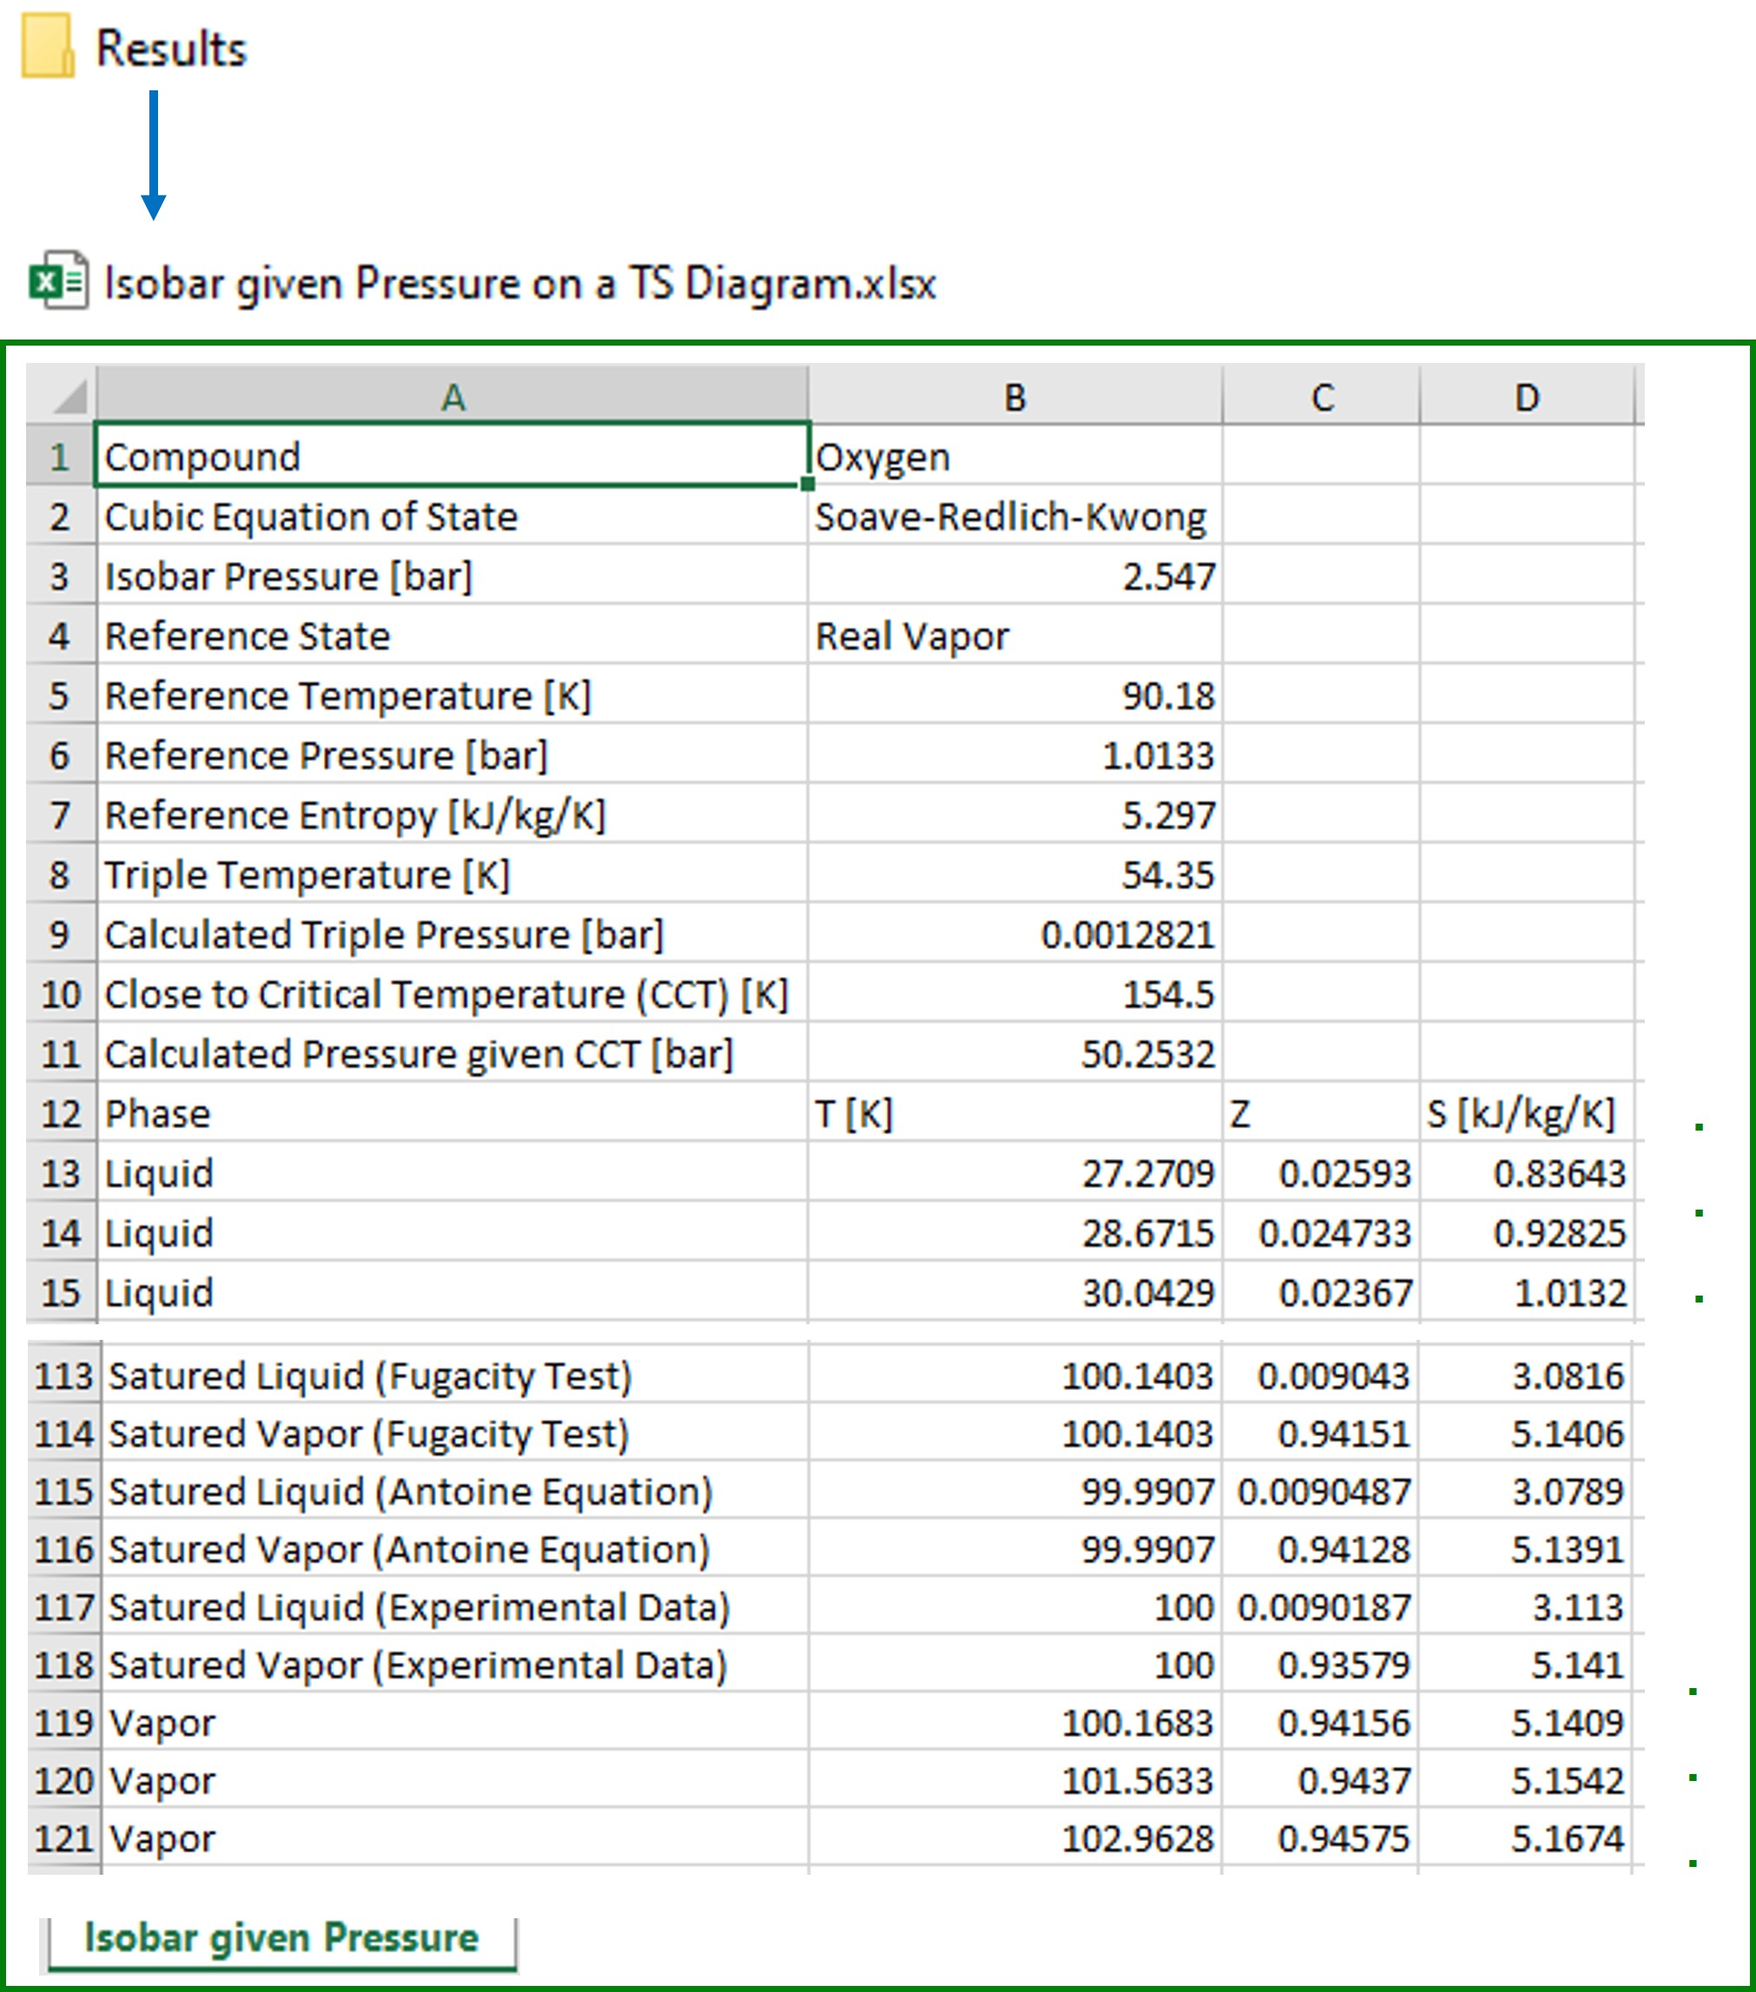
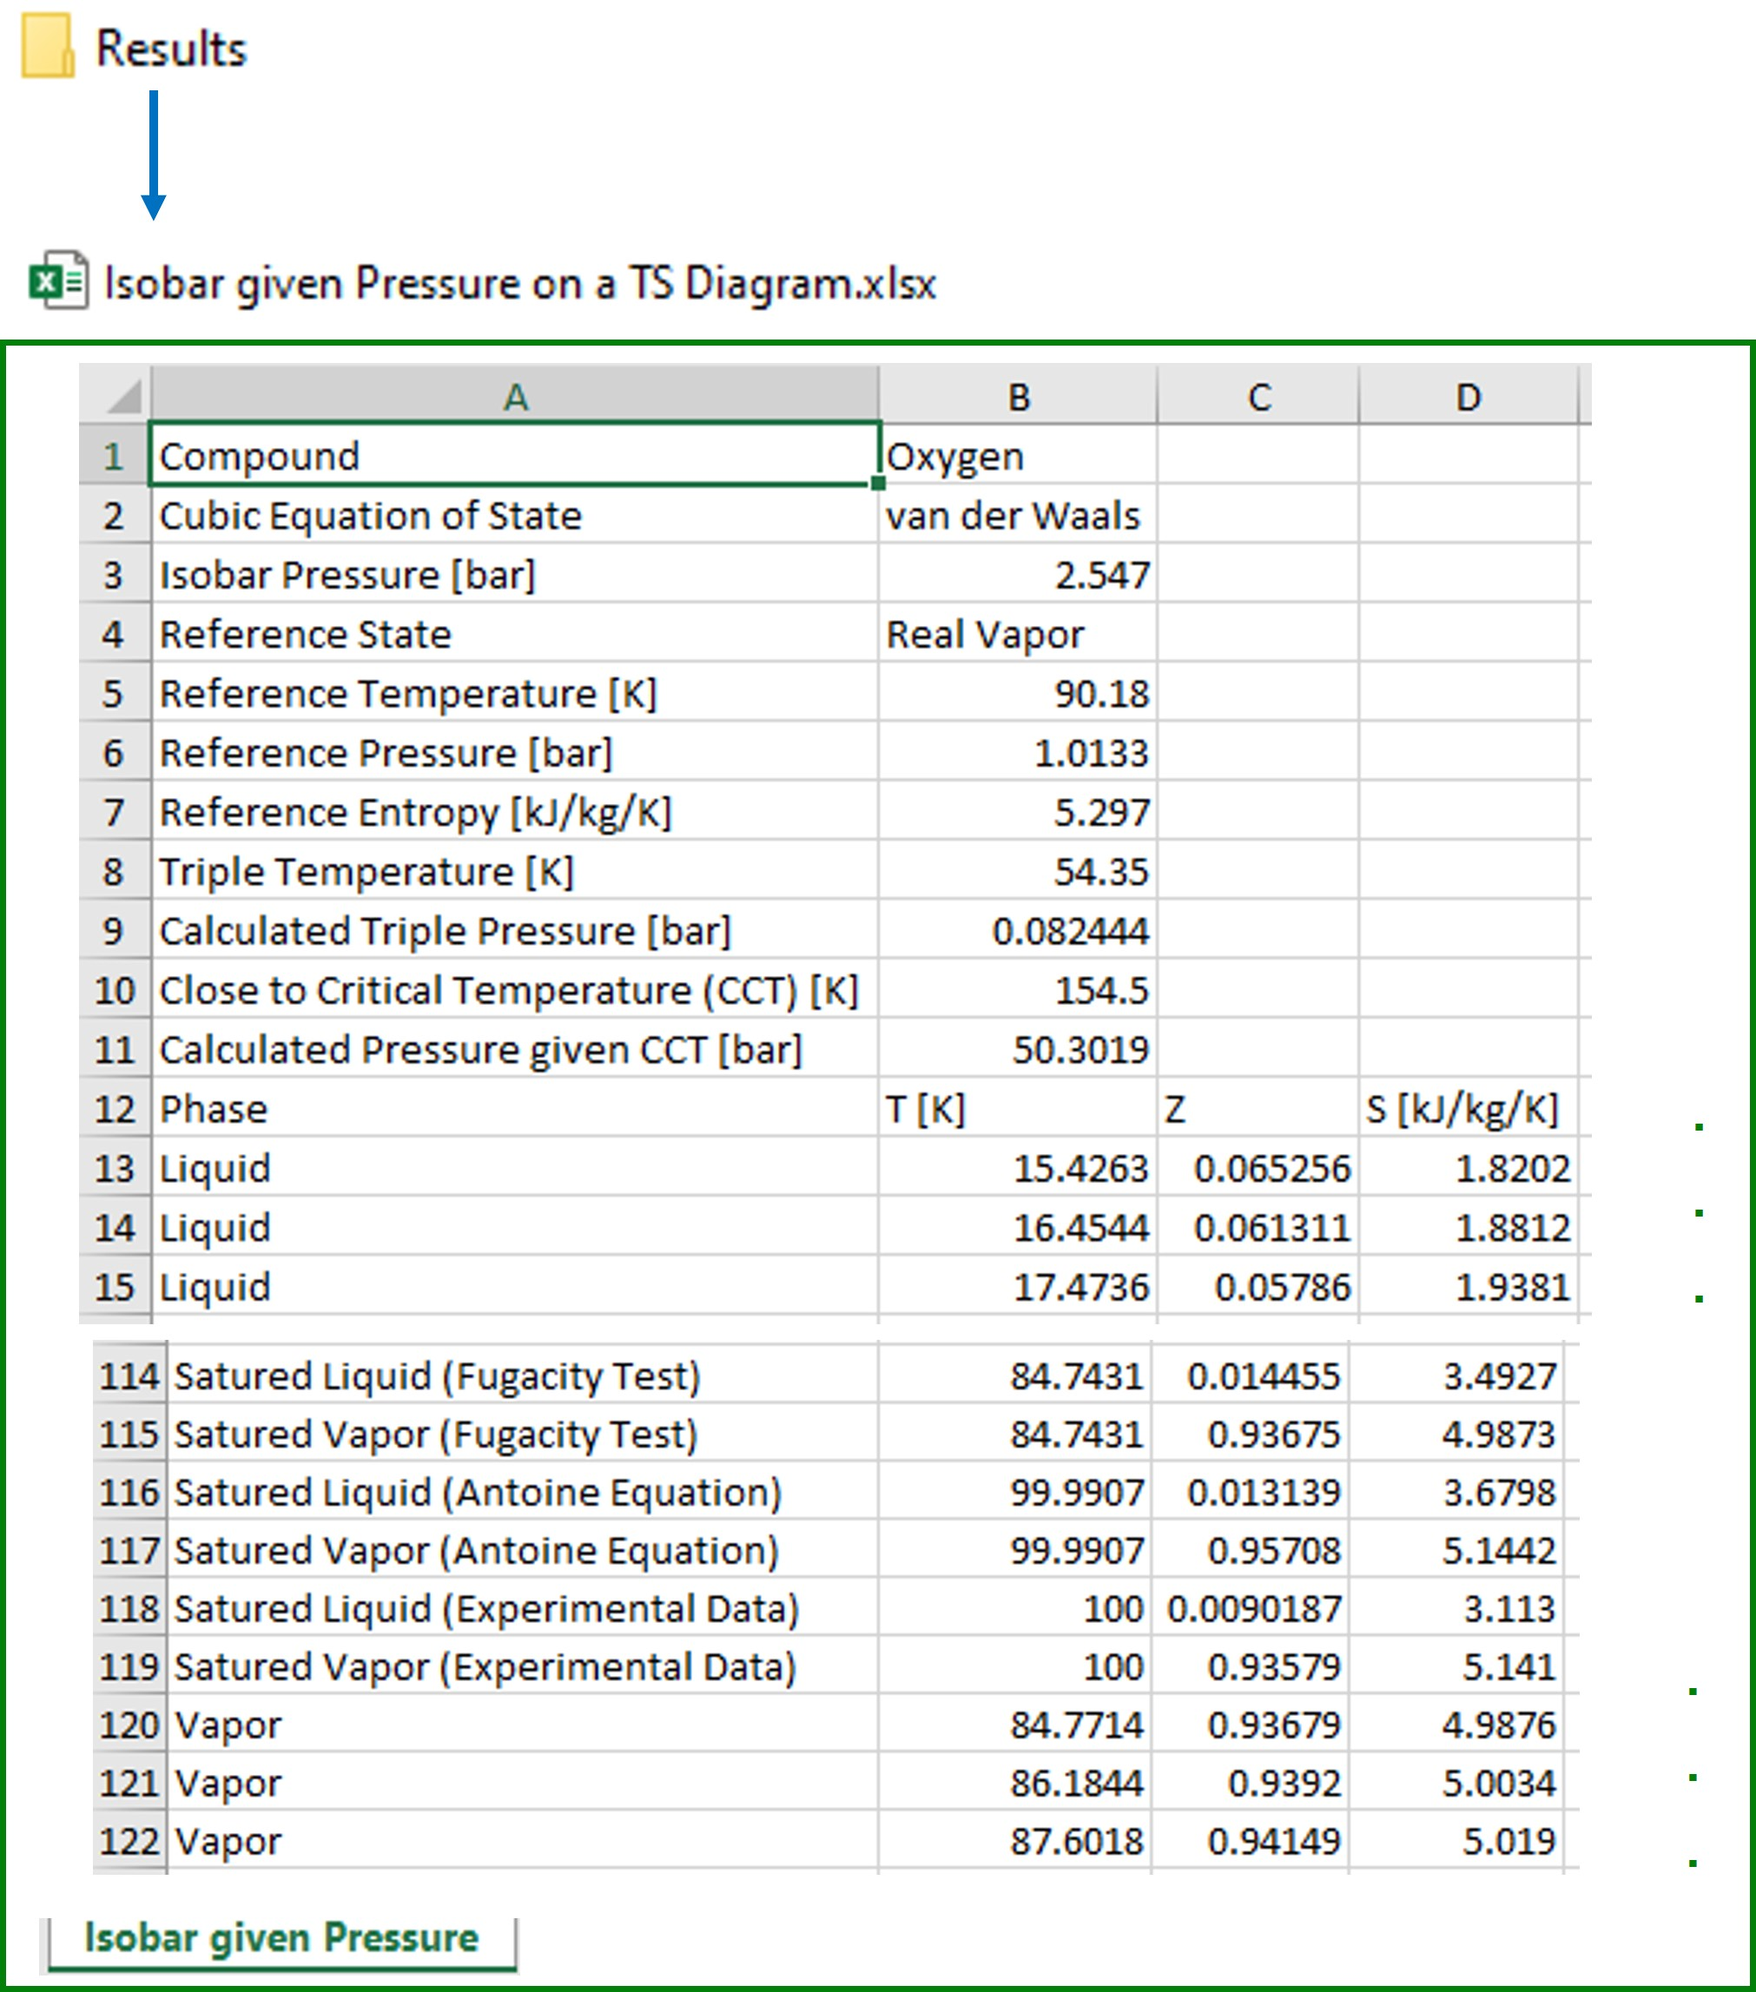
MATLAB Grader

diff --git a/Cubic Equations of State Simulator/MATLAB Grader/Assignment 2/Problem 4/README.md b/Cubic Equations of State Simulator/MATLAB Grader/Assignment 2/Problem 4/README.md
@@ -1,0 +1,109 @@
+# MATLAB Apps and MATLAB Codes: Entropy
+
+## 1. Isotherm given Temperature on a PS Diagram
+
+The first option of the entropy menu allows generating on a PS diagram the isotherm of a substance given a temperature, a reference state, and a cubic equation of state ([documented code](https://github.com/IMClick-Project/IQ/blob/main/Cubic%20Equations%20of%20State%20Simulator/Code%20Documentation/Entropy%201%20-%20Isotherm%20given%20Temperature%20on%20a%20PS%20Diagram.md)). **Figure 1** illustrates the access mode and parts of the window for this option: **section a)** allows selecting the compound (which defines the corresponding reference state recorded in the database), the cubic equation of state, and the isotherm temperature to perform the calculations; and **section b)** graphs and shows the results of the computed isotherm on a PS diagram.
+
+<img src="https://github.com/IMClick-Project/IQ/blob/main/Cubic%20Equations%20of%20State%20Simulator/MATLAB%20Grader/Assignment%202/Problem%204/s1-1.jpg" width="957" height="883">
+
+*Figure 1. Mode of access to and parts of the window of the first option of the entropy menu: Isotherm given Temperature on a PS Diagram.*
+
+**Figure 2** shows how to use this option. If there is no isotherm temperature available or the reference state is not completely defined, it is not possible to perform the calculations. If not, it performs the operations (for example, considering oxygen as the compound, van der Waals as the cubic equation of state, and 100 K as the isotherm temperature) and when it ends to graph and record the results, you can export the results in an Excel file (**Figure 3**).
+
+<img src="https://github.com/IMClick-Project/IQ/blob/main/Cubic%20Equations%20of%20State%20Simulator/MATLAB%20Grader/Assignment%202/Problem%204/s1-2.jpg" width="780" height="1317">
+
+*Figure 2. Mode of use and example of results executing the first option of the entropy menu: Isotherm given Temperature on a PS Diagram.*
+
+<img src="https://github.com/IMClick-Project/IQ/blob/main/Cubic%20Equations%20of%20State%20Simulator/MATLAB%20Grader/Assignment%202/Problem%204/s1-3.jpg" width="445" height="500">
+
+*Figure 3. Excel file with the exported results: Isotherm given Temperature on a PS Diagram.*
+
+## 2. Two-Phase Envelope on a PS Diagram
+
+The second option of the entropy menu allows generating on a PS diagram the saturated liquid and vapor line of a substance given the temperatures recorded in the simulator database, a reference state, and a cubic equation of state ([documented code](https://github.com/IMClick-Project/IQ/blob/main/Cubic%20Equations%20of%20State%20Simulator/Code%20Documentation/Entropy%202%20-%20Two-Phase%20Envelope%20on%20a%20PS%20Diagram.md)). **Figure 4** illustrates the access mode and parts of the window for this option: **section a)** allows selecting the compound (which defines the corresponding reference state recorded in the database) and the cubic equation of state to perform the calculations; and **section b)** graphs and shows the results of the computed saturated liquid and vapor line on a PS diagram, as well as the calculated critical point.
+
+<img src="https://github.com/IMClick-Project/IQ/blob/main/Cubic%20Equations%20of%20State%20Simulator/MATLAB%20Grader/Assignment%202/Problem%204/s2-1.jpg" width="957" height="885">
+
+*Figure 4. Mode of access to and parts of the window of the second option of the entropy menu: Two-Phase Envelope on a PS Diagram.*
+
+**Figure 5** shows how to use this option. If there are no isotherm temperatures available in the simulator database or the reference state is not completely defined, it is not possible to perform the calculations. If not, it performs the operations (for example, considering refrigerant 134a as the compound and Redlich-Kwong as the cubic equation of state) and when it ends to graph and record the results, you can export the results in an Excel file (**Figure 6**).
+
+<img src="https://github.com/IMClick-Project/IQ/blob/main/Cubic%20Equations%20of%20State%20Simulator/MATLAB%20Grader/Assignment%202/Problem%204/s2-2.jpg" width="746" height="1414">
+
+*Figure 5. Mode of use and example of results executing the second option of the entropy menu: Two-Phase Envelope on a PS Diagram.*
+
+<img src="https://github.com/IMClick-Project/IQ/blob/main/Cubic%20Equations%20of%20State%20Simulator/MATLAB%20Grader/Assignment%202/Problem%204/s2-3.jpg" width="681" height="457">
+
+*Figure 6. Excel file with the exported results: Two-Phase Envelope on a PS Diagram.*
+
+## 3. PST Surface given Isotherm Temperatures
+
+The third option of the entropy menu allows generating on a PST surface the isotherms of a substance given the temperatures recorded in the simulator database, a reference state, and a cubic equation of state ([documented code](https://github.com/IMClick-Project/IQ/blob/main/Cubic%20Equations%20of%20State%20Simulator/Code%20Documentation/Entropy%203%20-%20PST%20Surface%20given%20Isotherm%20Temperatures.md)). **Figure 7** illustrates the access mode and parts of the window for this option: **section a)** allows selecting the compound (which defines the corresponding reference state recorded in the database) and the cubic equation of state to perform the calculations; and **section b)** graphs and shows the results of the computed isotherms on a PST surface.
+
+<img src="https://github.com/IMClick-Project/IQ/blob/main/Cubic%20Equations%20of%20State%20Simulator/MATLAB%20Grader/Assignment%202/Problem%204/s3-1.jpg" width="957" height="857">
+
+*Figure 7. Mode of access to and parts of the window of the third option of the entropy menu: PST Surface given Isotherm Temperatures.*
+
+**Figure 8** shows how to use this option. If there are no isotherm temperatures available in the simulator database or the reference state is not completely defined, it is not possible to perform the calculations. If not, it performs the operations (for example, considering water as the compound and Peng-Robinson as the cubic equation of state).
+
+<img src="https://github.com/IMClick-Project/IQ/blob/main/Cubic%20Equations%20of%20State%20Simulator/MATLAB%20Grader/Assignment%202/Problem%204/s3-2.jpg" width="811" height="1281">
+
+*Figure 8. Mode of use and example of results executing the third option of the entropy menu: PST Surface given Isotherm Temperatures.*
+
+## 4. Isobar given Pressure on a TH Diagram
+
+The fourth option of the entropy menu allows generating on a TS diagram the isobar of a substance given a pressure, a reference state, and a cubic equation of state ([documented code](https://github.com/IMClick-Project/IQ/blob/main/Cubic%20Equations%20of%20State%20Simulator/Code%20Documentation/Entropy%204%20-%20Isobar%20given%20Pressure%20on%20a%20TS%20Diagram.md)). **Figure 9** illustrates the access mode and parts of the window for this option: **section a)** allows selecting the compound (which defines the corresponding reference state recorded in the database), the cubic equation of state, and the isobar pressure to perform the calculations; and **section b)** graphs and shows the results of the computed isobar on a TS diagram.
+
+<img src="https://github.com/IMClick-Project/IQ/blob/main/Cubic%20Equations%20of%20State%20Simulator/MATLAB%20Grader/Assignment%202/Problem%204/s4-1.jpg" width="957" height="879">
+
+*Figure 9. Mode of access to and parts of the window of the fourth option of the entropy menu: Isobar given Pressure on a TS Diagram.*
+
+**Figure 10** shows how to use this option. If there is no isobar pressure available or the reference state is not completely defined, it is not possible to perform the calculations. If not, it performs the operations (for example, considering oxygen as the compound, van der Waals as the cubic equation of state, and 2.547 bar as the isobar pressure) and when it ends to graph and record the results, you can export the results in an Excel file (**Figure 11**).
+
+<img src="https://github.com/IMClick-Project/IQ/blob/main/Cubic%20Equations%20of%20State%20Simulator/MATLAB%20Grader/Assignment%202/Problem%204/s4-2.jpg" width="768" height="1299">
+
+*Figure 10. Mode of use and example of results executing the fourth option of the entropy menu: Isobar given Pressure on a TH Diagram.*
+
+<img src="https://github.com/IMClick-Project/IQ/blob/main/Cubic%20Equations%20of%20State%20Simulator/MATLAB%20Grader/Assignment%202/Problem%204/s4-3.jpg" width="506" height="574">
+
+*Figure 11. Excel file with the exported results: Isobar given Pressure on a TS Diagram.*
+
+There is a thermodynamically impossible case that does not allow the prediction to be made through the Fugacity Test. This is when $\mathbf{P_{sat}}$ is not between the $\mathbf{P_{sat}}$ calculated from $\mathbf{T_t}$ and close to $\mathbf{T_c}$. **Figure 12** shows the results of this case in the simulator and exported to an Excel file.
+
+<img src="https://github.com/IMClick-Project/IQ/blob/main/Cubic%20Equations%20of%20State%20Simulator/MATLAB%20Grader/Assignment%202/Problem%204/s4-4.jpg" width="769" height="1155">
+
+*Figure 12. Results in the case not thermodynamically possible and the calculations of the Fugacity Test cannot be performed: Isobar given Pressure on a TS Diagram.*
+
+## 5. Two-Phase Envelope on a TS Diagram
+
+The fifth option of the entropy menu allows generating on a TS diagram the saturated liquid and vapor line of a substance given the pressures recorded in the simulator database, a reference state, and a cubic equation of state ([documented code](https://github.com/IMClick-Project/IQ/blob/main/Cubic%20Equations%20of%20State%20Simulator/Code%20Documentation/Entropy%205%20-%20Two-Phase%20Envelope%20on%20a%20TS%20Diagram.md)). **Figure 13** illustrates the access mode and parts of the window for this option: **section a)** allows selecting the compound (which defines the corresponding reference state recorded in the database) and the cubic equation of state to perform the calculations; and **section b)** graphs and shows the results of the computed saturated liquid and vapor line on a TS diagram, as well as the calculated critical point.
+
+<img src="https://github.com/IMClick-Project/IQ/blob/main/Cubic%20Equations%20of%20State%20Simulator/MATLAB%20Grader/Assignment%202/Problem%204/s5-1.jpg" width="957" height="886">
+
+*Figure 13. Mode of access to and parts of the window of the fifth option of the entropy menu: Two-Phase Envelope on a TS Diagram.*
+
+**Figure 14** shows how to use this option. If there are no isobar pressures available in the simulator database or the reference state is not completely defined, it is not possible to perform the calculations. If not, it performs the operations (for example, considering refrigerant 134a as the compound and Soave-Redlich-Kwong as the cubic equation of state) and when it ends to graph and record the results, you can export the results in an Excel file (**Figure 15**).
+
+<img src="https://github.com/IMClick-Project/IQ/blob/main/Cubic%20Equations%20of%20State%20Simulator/MATLAB%20Grader/Assignment%202/Problem%204/s5-2.jpg" width="751" height="1415">
+
+*Figure 14. Mode of use and example of results executing the fifth option of the entropy menu: Two-Phase Envelope on a TS Diagram.*
+
+<img src="https://github.com/IMClick-Project/IQ/blob/main/Cubic%20Equations%20of%20State%20Simulator/MATLAB%20Grader/Assignment%202/Problem%204/s5-3.jpg" width="702" height="454">
+
+*Figure 15. Excel file with the exported results: Two-Phase Envelope on a TS Diagram.*
+
+## 6. PST Surface given Isobar Pressures
+
+The sixth option of the entropy menu allows generating on a PST surface the isobars of a substance given the pressures recorded in the simulator database, a reference state, and a cubic equation of state ([documented code](https://github.com/IMClick-Project/IQ/blob/main/Cubic%20Equations%20of%20State%20Simulator/Code%20Documentation/Entropy%206%20-%20PST%20Surface%20given%20Isobar%20Pressures.md)). **Figure 16** illustrates the access mode and parts of the window for this option: **section a)** allows selecting the compound (which defines the corresponding reference state recorded in the database) and the cubic equation of state to perform the calculations; and **section b)** graphs and shows the results of the computed isobars on a PST surface.
+
+<img src="https://github.com/IMClick-Project/IQ/blob/main/Cubic%20Equations%20of%20State%20Simulator/MATLAB%20Grader/Assignment%202/Problem%204/s6-1.jpg" width="957" height="854">
+
+*Figure 16. Mode of access to and parts of the window of the sixth option of the entropy menu: PST Surface given Isobar Pressures.*
+
+**Figure 17** shows how to use this option. If there are no isobar pressures available in the simulator database or the reference state is not completely defined, it is not possible to perform the calculations. If not, it performs the operations (for example, considering water as the compound and Peng-Robinson as the cubic equation of state).
+
+<img src="https://github.com/IMClick-Project/IQ/blob/main/Cubic%20Equations%20of%20State%20Simulator/MATLAB%20Grader/Assignment%202/Problem%204/s6-2.jpg" width="808" height="1281">
+
+*Figure 17. Mode of use and example of results executing the sixth option of the entropy menu: PST Surface given Isobar Pressures.*
+
+## 7. Exercises
